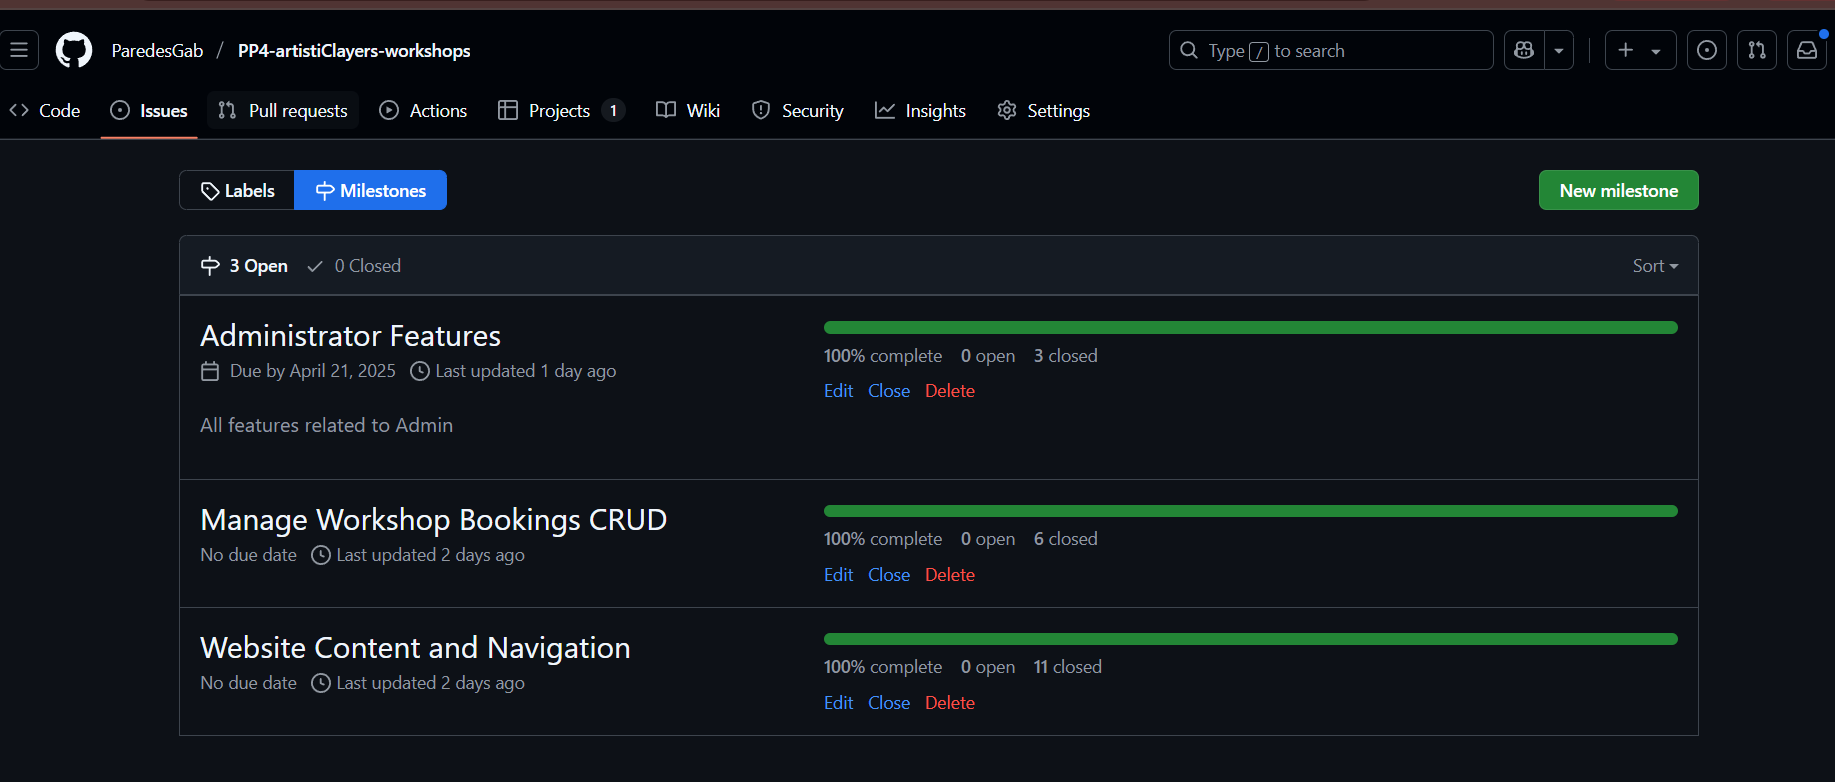
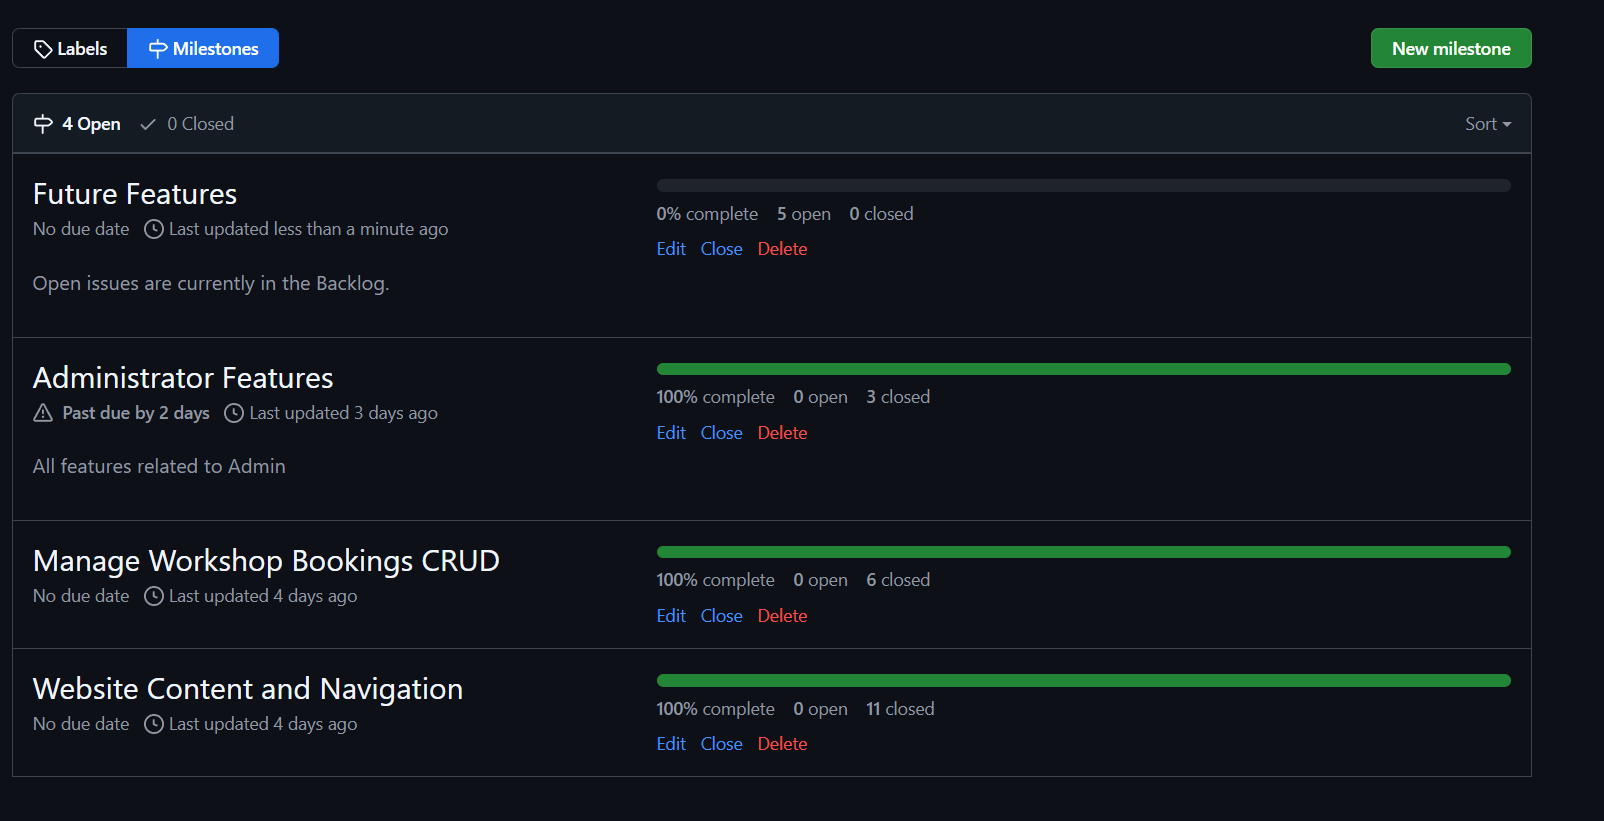
Replace agile screenshots

diff --git a/README.md b/README.md
@@ -273,10 +273,11 @@ I've used [Balsamiq](https://balsamiq.com/wireframes) to design my site wirefram
 ### GitHub Issues
 
 [GitHub Issues](https://www.github.com/ParedesGab/PP4-artistiClayers-workshops/issues) served as an another Agile tool. There, I managed my User Stories and Milestone tasks.
+The remaining five open issues are currently in the Backlog.
 
-| Link | Screenshot |
-| --- | --- |
-| [![GitHub closed issues](https://img.shields.io/github/issues-closed/ParedesGab/PP4-artistiClayers-workshops)](https://www.github.com/ParedesGab/PP4-artistiClayers-workshops/issues?q=is%3Aissue+is%3Aclosed) | ![screenshot](documentation/gh-issues-closed.png) |
+| Link | Screenshot | Notes |
+| --- | --- | --- |
+| [![GitHub closed issues](https://img.shields.io/github/issues-closed/ParedesGab/PP4-artistiClayers-workshops)](https://www.github.com/ParedesGab/PP4-artistiClayers-workshops/issues?q=is%3Aissue+is%3Aclosed) | ![screenshot](documentation/gh-issues-closed.png) | The remaining five open issues are currently in the Backlog. |
 
 ### GitHub Milestones
 
